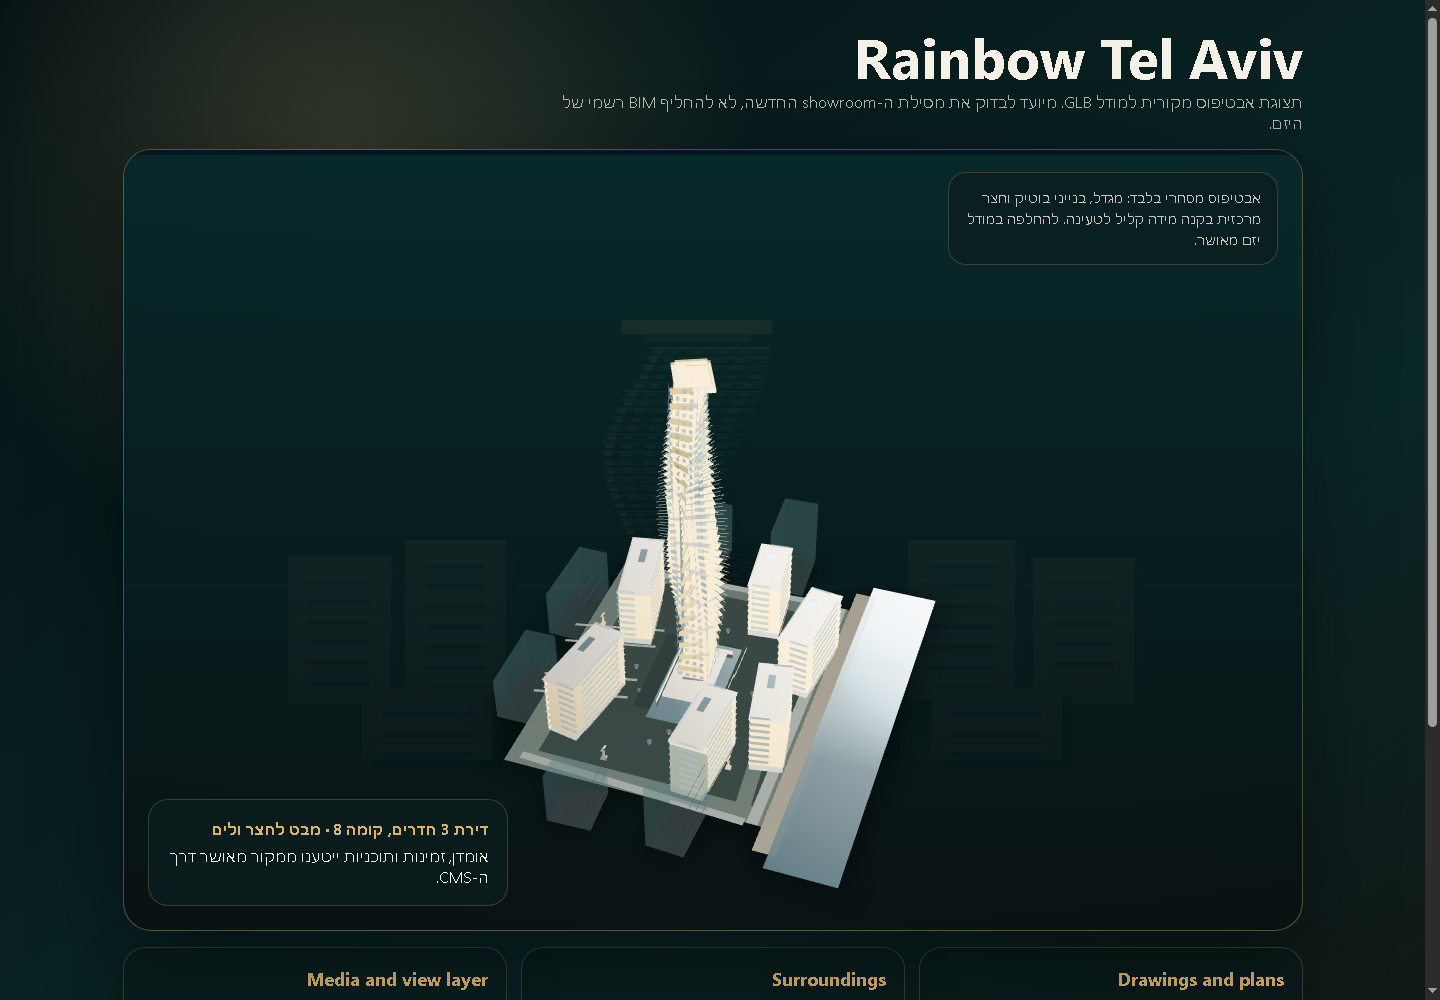
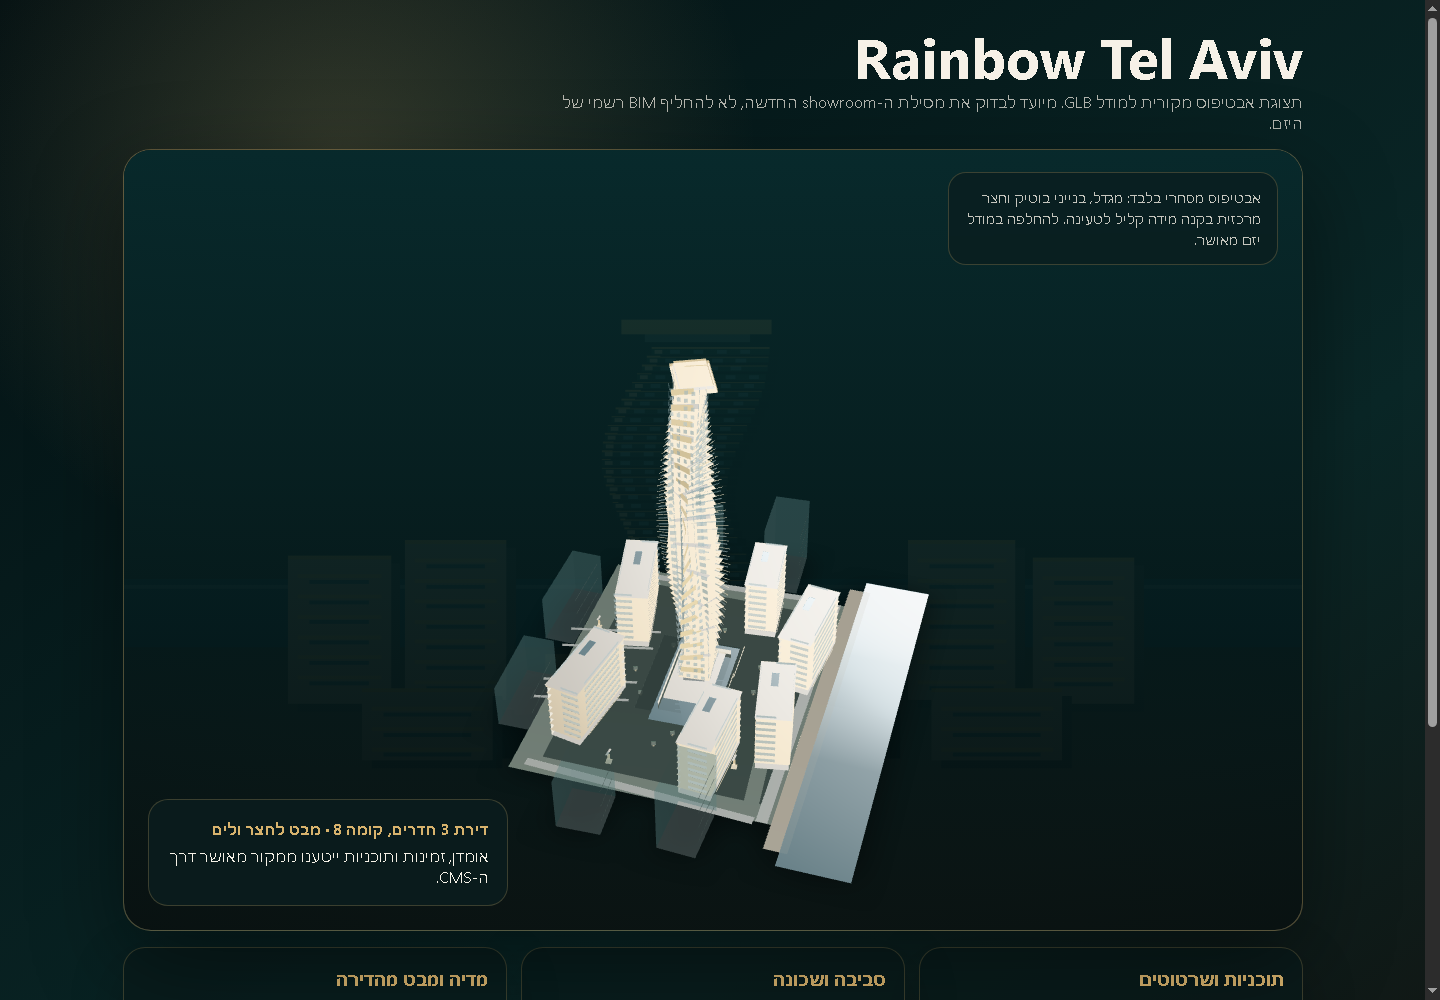
test: add Edge mobile showroom preview gate

diff --git a/docs/previews/rainbow-model-viewer-prototype.html b/docs/previews/rainbow-model-viewer-prototype.html
@@ -199,15 +199,15 @@
   </section>
   <section class="insights" aria-label="Project showroom data layers">
     <article class="insight-card">
-      <h2>Drawings and plans</h2>
+      <h2>תוכניות ושרטוטים</h2>
       <ul class="preview-list" id="drawings-panel" data-preview-drawings></ul>
     </article>
     <article class="insight-card">
-      <h2>Surroundings</h2>
+      <h2>סביבה ושכונה</h2>
       <ul class="preview-list" id="environment-panel" data-preview-environment></ul>
     </article>
     <article class="insight-card">
-      <h2>Media and view layer</h2>
+      <h2>מדיה ומבט מהדירה</h2>
       <div class="preview-list" id="media-panel" data-preview-media></div>
       <p id="view-layer-panel" data-preview-view-layer></p>
     </article>
@@ -256,8 +256,14 @@
       ]);
 
       const drawingsPanel = document.getElementById("drawings-panel");
+      const drawingTypeLabel = (type) => {
+        if (type === "site_orientation") return "מיקום וסביבה";
+        if (type === "floor_plan") return "תוכנית דירה";
+        if (type === "official_elevation") return "חזית רשמית";
+        return "חומר עזר";
+      };
       (drawings.items || []).slice(0, 5).forEach((item) => {
-        appendItem(drawingsPanel, item.label || item.type || "Drawing", item.type || "plan", {
+        appendItem(drawingsPanel, item.label || drawingTypeLabel(item.type), drawingTypeLabel(item.type), {
           "data-preview-drawing": item.type || "drawing"
         });
       });
@@ -290,8 +296,8 @@
       const lazyCost = viewLayer.cost_controls?.lazy_on_user_gesture === true && viewLayer.cost_controls?.instantiate_on_page_load === false;
       viewPanel.dataset.userOpenOnly = String(mapboxUserOpened && cesiumUserOpened && lazyCost);
       viewPanel.textContent = mapboxUserOpened && lazyCost
-        ? "View layer is lazy and user-opened; Cesium slot remains pending approved tiles."
-        : "View layer policy needs review before public use.";
+        ? "שכבת המבט נטענת רק לאחר פעולה של המשתמש; Cesium ממתין לחומר מאושר."
+        : "מדיניות שכבת המבט דורשת בדיקה לפני שימוש ציבורי.";
       window.__rainbowPreviewDataReady = true;
     } catch (error) {
       window.__rainbowPreviewDataReady = false;
